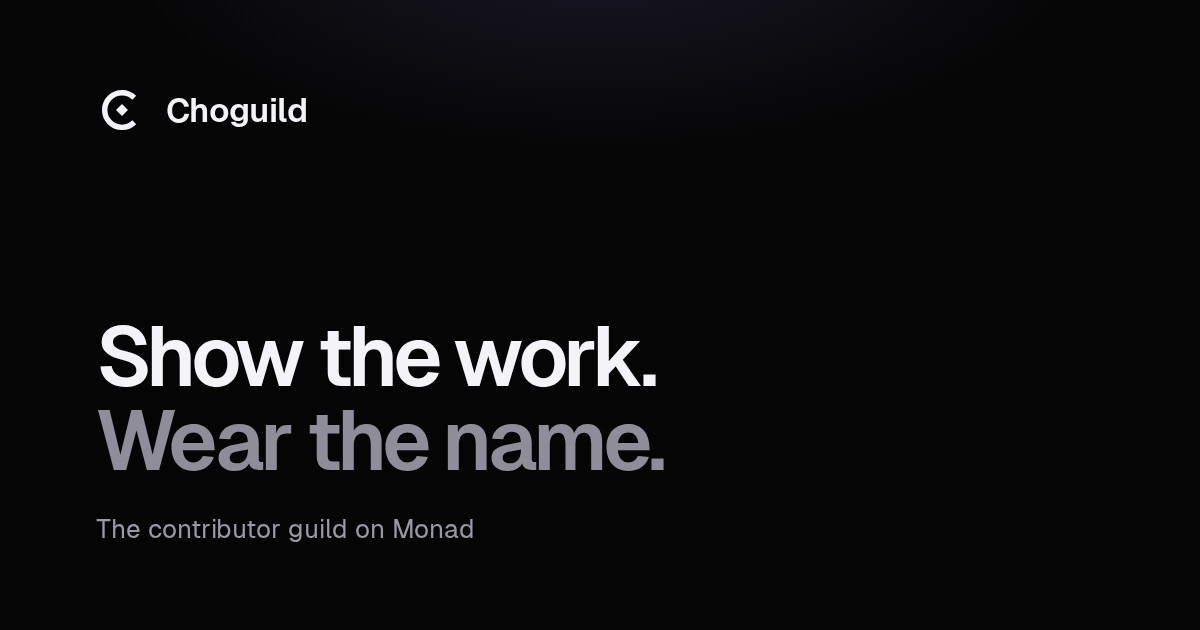
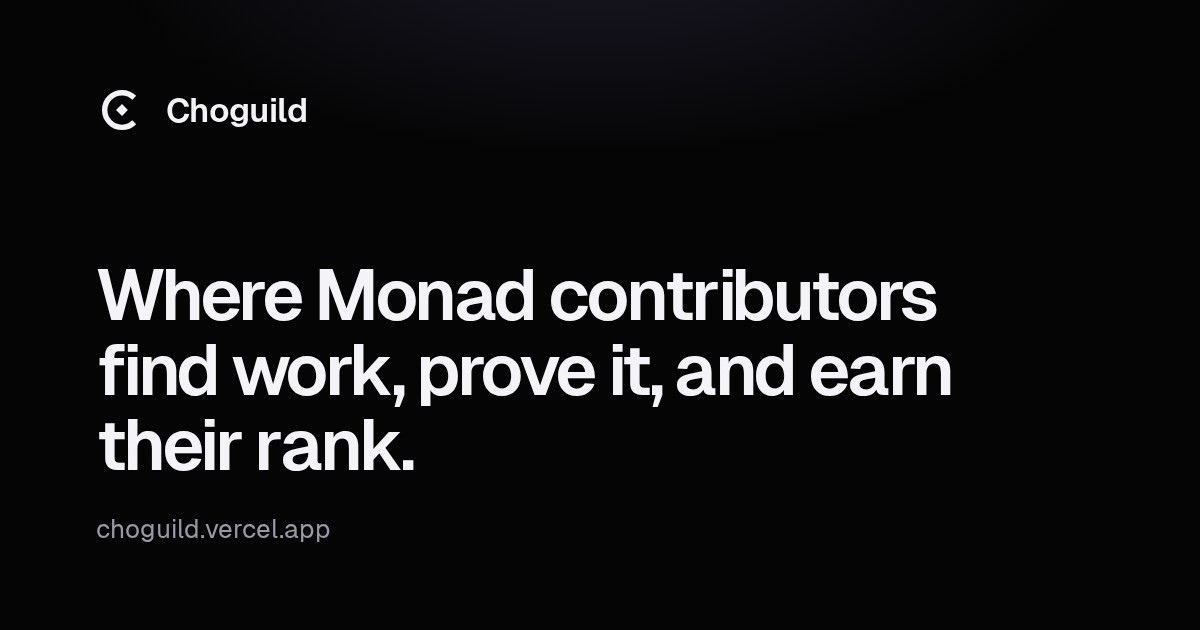
Hero: one plain sentence headline, single-tone headings everywhere
Replace the two-line 'Show the work. / Wear the name.' split with one
sentence in one colour (word-by-word reveal kept), a single-sentence
subheading, and drop the serif-accent / grey-gradient heading treatment
from section heads, page titles, the OG image and the README.

Changed region(s): [[0.0617, 0.4222, 0.8017, 0.754], [0.0617, 0.8143, 0.4008, 0.8746]]

diff --git a/src/routes/index.tsx b/src/routes/index.tsx
@@ -55,6 +55,8 @@ function HomePage() {
   );
 }
 
+const HEADLINE = "Where Monad contributors find work, prove it, and earn their rank.";
+
 function Hero() {
   const { profile, stats } = Route.useLoaderData();
 
@@ -80,15 +82,12 @@ function Hero() {
 
         <h1
           id="hero-title"
-          className="mt-8 text-[clamp(2.6rem,1.2rem+5.6vw,5.75rem)] leading-[0.98] font-semibold tracking-[-0.055em]"
+          className="mt-8 max-w-[15ch] text-[clamp(2.4rem,1.2rem+4.4vw,4.5rem)] lg:max-w-[19ch] leading-[1.02] font-semibold tracking-[-0.05em] text-balance text-ink"
         >
           <WordReveal
             delay={0.15}
-            wordClassName="text-shine pb-[0.08em]"
-            lines={[
-              ["Show", "the", "work."],
-              ["Wear", "the", <span key="n" className="serif-accent pr-[0.06em] text-[1.08em] tracking-[-0.01em]">name.</span>],
-            ]}
+            wrap
+            lines={[HEADLINE.split(" ")]}
           />
         </h1>
 
@@ -98,7 +97,7 @@ function Hero() {
           transition={{ duration: 0.8, ease: [0.22, 1, 0.36, 1], delay: 0.65 }}
           className="mt-7 max-w-[34rem] text-[16px] leading-7 text-balance text-body sm:text-[18px] sm:leading-8"
         >
-          A passport for your name, a board of open work, and a record of every contribution a publisher accepted.
+          One passport, open work from the community, and a public record of everything you deliver.
         </motion.p>
 
         <motion.div
@@ -159,13 +158,13 @@ function Hero() {
   );
 }
 
-function SectionHead({ eyebrow, title, accent, aside }: { eyebrow: string; title: string; accent: string; aside?: ReactNode }) {
+function SectionHead({ eyebrow, title, aside }: { eyebrow: string; title: string; aside?: ReactNode }) {
   return (
     <Reveal className="flex flex-col gap-4 md:flex-row md:items-end md:justify-between">
       <div className="max-w-2xl">
         <p className="text-[12px] font-medium tracking-[0.18em] text-muted uppercase">{eyebrow}</p>
-        <h2 className="text-shine mt-4 text-[clamp(1.9rem,1.2rem+2.2vw,2.9rem)] leading-[1.04] font-semibold tracking-[-0.045em]">
-          {title} <span className="serif-accent text-[1.06em]">{accent}</span>
+        <h2 className="mt-4 text-ink text-[clamp(1.9rem,1.2rem+2.2vw,2.9rem)] leading-[1.04] font-semibold tracking-[-0.045em]">
+          {title}
         </h2>
       </div>
       {aside}
@@ -178,8 +177,7 @@ function Steps() {
     <section aria-label="How the guild works" className="mx-auto w-full max-w-6xl px-5 pt-16 sm:px-8 lg:pt-24">
       <SectionHead
         eyebrow="How it works"
-        title="One record, from identity to"
-        accent="accepted work."
+        title="One record, from identity to accepted work."
         aside={
           <Link to="/how-it-works" className="text-[14px] text-body underline-offset-4 hover:text-ink hover:underline">
             The full loop and XP table
@@ -220,7 +218,7 @@ function Inside() {
 
   return (
     <section aria-labelledby="inside-title" className="relative mx-auto w-full max-w-6xl px-5 pt-24 pb-24 sm:px-8 lg:pt-32">
-      <SectionHead eyebrow="Inside the guild" title="Live from the board and" accent="the ladder." />
+      <SectionHead eyebrow="Inside the guild" title="Live from the board and the ladder." />
 
       <div className="mt-12 grid grid-cols-[minmax(0,1fr)] items-start gap-5 lg:grid-cols-[minmax(0,1fr)_minmax(0,1.15fr)] lg:gap-6">
         <Reveal>

diff --git a/src/components/fx/reveal.tsx b/src/components/fx/reveal.tsx
@@ -36,17 +36,20 @@ export function WordReveal({
   className,
   wordClassName = "",
   delay = 0,
+  wrap = false,
 }: {
   lines: ReactNode[][];
   className?: string;
   wordClassName?: string;
   delay?: number;
+  /** Let the words wrap naturally instead of keeping each line on one row. */
+  wrap?: boolean;
 }) {
   let index = 0;
   return (
     <span className={className}>
       {lines.map((words, line) => (
-        <span key={line} className="block whitespace-nowrap">
+        <span key={line} className={wrap ? "inline" : "block whitespace-nowrap"}>
           {words.map((word, i) => {
             const d = delay + index++ * 0.07;
             return [

diff --git a/src/styles.css b/src/styles.css
@@ -548,12 +548,8 @@
   .btn-glow:hover { box-shadow: 0 0 0 1px rgb(255 255 255 / 0.16) inset, 0 10px 40px -8px rgb(116 103 212 / 0.9); }
 
   .text-shine {
-    background: linear-gradient(180deg, #ffffff 35%, #b9b8c6 100%);
-    -webkit-background-clip: text;
-    background-clip: text;
-    color: transparent;
+    color: var(--color-ink);
   }
-  :root[data-theme="light"] .text-shine { background: none; color: var(--color-ink); }
   .serif-accent {
     font-family: var(--font-serif);
     font-style: italic;

diff --git a/README.md b/README.md
@@ -5,7 +5,7 @@
 <h1 align="center">Choguild</h1>
 
 <p align="center">
-  <strong>Show the work and wear the name.</strong><br />
+  <strong>Where Monad contributors find work, prove it, and earn their rank.</strong><br />
   A contributor guild for the Monad ecosystem: a passport for your name, a board of open work, and a record of reviewed contributions.
 </p>
 
